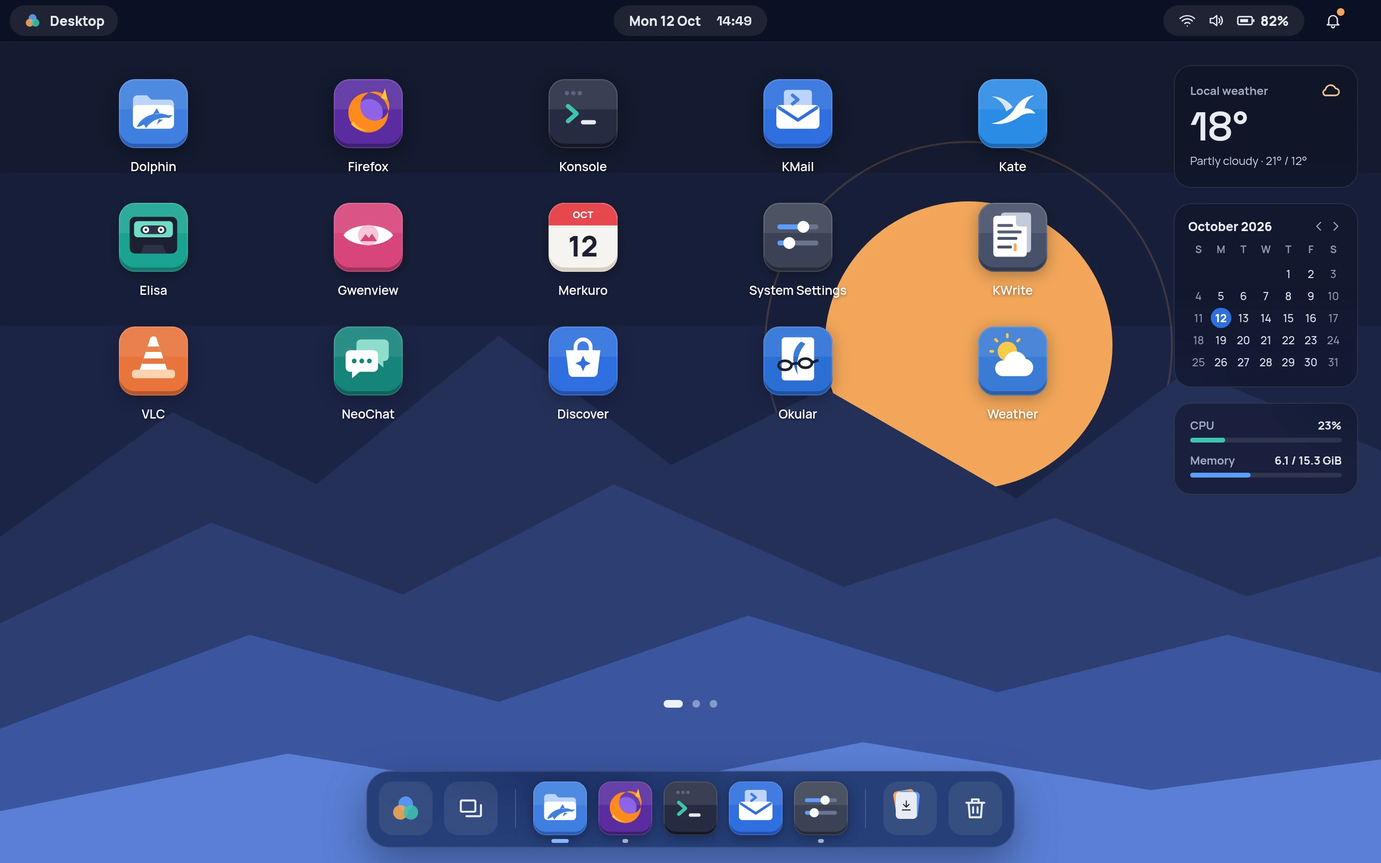
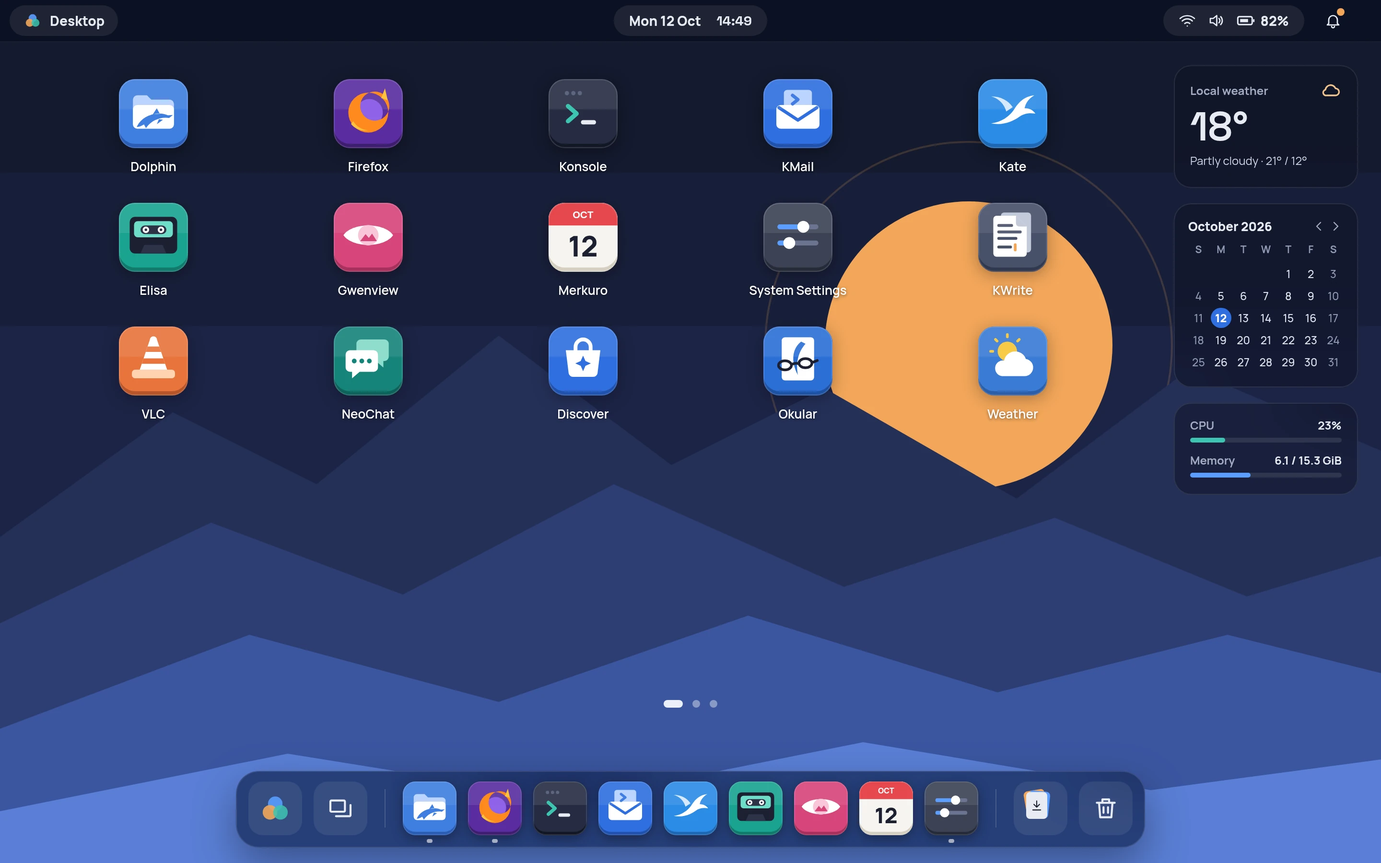
Design: the tablet dock shows the default pins and no active task
The dock's default launchers are nine apps; the boards add Kate, Elisa,
Gwenview and the calendar pin between KMail and System Settings. Dolphin
becomes a running dot like the others: the top-left pill says Desktop, so
the runtime has no active task to mark (TaskItem's wide pill comes from
model.IsActive, the appname pill says Desktop when no task is active).

Changed region(s): [[0.1562, 0.8711, 0.8438, 1.0]]

diff --git a/design/boards/TabletLight.dc.html b/design/boards/TabletLight.dc.html
@@ -189,7 +189,7 @@ a{color:#2f6fdf}a:hover{color:#2359c4}
 <span style="width:1px;height:40px;margin:0 6px 8px;background:rgba(20,24,39,0.16)"></span>
 <div style="position:relative;display:flex;flex-direction:column;align-items:center">
 <button aria-label="Dolphin" style="display:block;width:56px;height:56px;filter:drop-shadow(0 3px 6px rgba(20,24,39,0.14))"><svg xmlns="http://www.w3.org/2000/svg" width="56" height="56" viewBox="0 0 64 64"><defs><linearGradient id="pf-sheen" gradientUnits="userSpaceOnUse" x1="0" y1="0" x2="0" y2="64"><stop offset="0" stop-color="#ffffff" stop-opacity="0.09"/><stop offset="0.4375" stop-color="#ffffff" stop-opacity="0.09"/><stop offset="0.4375" stop-color="#ffffff" stop-opacity="0"/></linearGradient></defs><path d="M15 0h34a15 15 0 0 1 15 15v34a15 15 0 0 1 -15 15h-34a15 15 0 0 1 -15 -15v-34a15 15 0 0 1 15 -15z" fill="#2b5db5"/><path d="M15 0h34a15 15 0 0 1 15 15v30a15 15 0 0 1 -15 15h-34a15 15 0 0 1 -15 -15v-30a15 15 0 0 1 15 -15z" fill="#3f7fe0"/><path d="M15 0h34a15 15 0 0 1 15 15v13H0V15A15 15 0 0 1 15 0z" fill="#ffffff" fill-opacity="0.09"/><path d="M13 19a4 4 0 0 1 4-4h9l4 4h17a4 4 0 0 1 4 4v19H13z" fill="#bcd4ff"/><path fill-rule="evenodd" d="M17 24h30a4 4 0 0 1 4 4v14a4 4 0 0 1 -4 4h-30a4 4 0 0 1 -4 -4v-14a4 4 0 0 1 4 -4z" fill="#ffffff"/><path fill-rule="evenodd" d="M16.5 44.5c3-7 10-11.5 18.5-12.5 4-.4 7.5.3 10.5 1.6l4.5-.4-3.4 2.8c-4.4-.7-9 0-13 2-3.6 1.8-6.5 4.4-8.5 7.4l-1.9-3.4c-2.4 1.5-4.6 2.3-6.7 2.5zM31.5 32.6l3.6-5.6 2.8 5.1zM37 37.2l-1.8 4.6 5.6-4.1z" fill="#3f7fe0"/><path d="M16.5 44.5c3-7 10-11.5 18.5-12.5 4-.4 7.5.3 10.5 1.6l4.5-.4-3.4 2.8c-4.4-.7-9 0-13 2-3.6 1.8-6.5 4.4-8.5 7.4l-1.9-3.4c-2.4 1.5-4.6 2.3-6.7 2.5zM31.5 32.6l3.6-5.6 2.8 5.1zM37 37.2l-1.8 4.6 5.6-4.1z" fill="url(#pf-sheen)" fill-rule="evenodd"/><path d="M15 0.5h34a14.5 14.5 0 0 1 14.5 14.5v34a14.5 14.5 0 0 1 -14.5 14.5h-34a14.5 14.5 0 0 1 -14.5 -14.5v-34a14.5 14.5 0 0 1 14.5 -14.5z" fill="none" stroke="#ffffff" stroke-opacity="0.14" stroke-width="1" stroke-linecap="butt" stroke-linejoin="miter"/></svg></button>
-<span style="position:absolute;bottom:-8px;height:4px;border-radius:2px;width:18px;background:#2f6fdf"></span>
+<span style="position:absolute;bottom:-8px;height:4px;border-radius:2px;width:6px;background:rgba(20,24,39,0.6)"></span>
 </div>
 <div style="position:relative;display:flex;flex-direction:column;align-items:center">
 <button aria-label="Firefox" style="display:block;width:56px;height:56px;filter:drop-shadow(0 3px 6px rgba(20,24,39,0.14))"><svg xmlns="http://www.w3.org/2000/svg" width="56" height="56" viewBox="0 0 64 64"><path d="M15 0h34a15 15 0 0 1 15 15v34a15 15 0 0 1 -15 15h-34a15 15 0 0 1 -15 -15v-34a15 15 0 0 1 15 -15z" fill="#3e1e70"/><path d="M15 0h34a15 15 0 0 1 15 15v30a15 15 0 0 1 -15 15h-34a15 15 0 0 1 -15 -15v-30a15 15 0 0 1 15 -15z" fill="#5a2ca0"/><path d="M15 0h34a15 15 0 0 1 15 15v13H0V15A15 15 0 0 1 15 0z" fill="#ffffff" fill-opacity="0.09"/><path d="M20.5 31a12.5 12.5 0 1 0 25 0a12.5 12.5 0 1 0 -25 0z" fill="#8f63e8"/><path fill-rule="evenodd" d="M13.5 31a18.5 18.5 0 1 0 37 0a18.5 18.5 0 1 0 -37 0zM24.5 25a13.5 13.5 0 1 0 27 0a13.5 13.5 0 1 0 -27 0z" fill="#ff8a1f"/><path fill-rule="evenodd" d="M44 17.5l3.5-9 2.5 11zM18 39c3 5 8 8 14 8.5-7 1-13-2-16-6z" fill="#ffc23d"/><path d="M15 0.5h34a14.5 14.5 0 0 1 14.5 14.5v34a14.5 14.5 0 0 1 -14.5 14.5h-34a14.5 14.5 0 0 1 -14.5 -14.5v-34a14.5 14.5 0 0 1 14.5 -14.5z" fill="none" stroke="#ffffff" stroke-opacity="0.14" stroke-width="1" stroke-linecap="butt" stroke-linejoin="miter"/></svg></button>
@@ -200,6 +200,18 @@ a{color:#2f6fdf}a:hover{color:#2359c4}
 </div>
 <div style="position:relative;display:flex;flex-direction:column;align-items:center">
 <button aria-label="KMail" style="display:block;width:56px;height:56px;filter:drop-shadow(0 3px 6px rgba(20,24,39,0.14))"><svg xmlns="http://www.w3.org/2000/svg" width="56" height="56" viewBox="0 0 64 64"><defs><linearGradient id="pf-sheen" gradientUnits="userSpaceOnUse" x1="0" y1="0" x2="0" y2="64"><stop offset="0" stop-color="#ffffff" stop-opacity="0.09"/><stop offset="0.4375" stop-color="#ffffff" stop-opacity="0.09"/><stop offset="0.4375" stop-color="#ffffff" stop-opacity="0"/></linearGradient></defs><path d="M15 0h34a15 15 0 0 1 15 15v34a15 15 0 0 1 -15 15h-34a15 15 0 0 1 -15 -15v-34a15 15 0 0 1 15 -15z" fill="#2152ad"/><path d="M15 0h34a15 15 0 0 1 15 15v30a15 15 0 0 1 -15 15h-34a15 15 0 0 1 -15 -15v-30a15 15 0 0 1 15 -15z" fill="#2f6fdf"/><path d="M15 0h34a15 15 0 0 1 15 15v13H0V15A15 15 0 0 1 15 0z" fill="#ffffff" fill-opacity="0.09"/><path d="M22 10h20a3 3 0 0 1 3 3v18a3 3 0 0 1 -3 3h-20a3 3 0 0 1 -3 -3v-18a3 3 0 0 1 3 -3z" fill="#bcd4ff"/><path fill-rule="evenodd" d="M16 24h32a4 4 0 0 1 4 4v14a4 4 0 0 1 -4 4h-32a4 4 0 0 1 -4 -4v-14a4 4 0 0 1 4 -4z" fill="#ffffff"/><path d="M14.5 26.5 32 38l17.5-11.5M27 15l5 4-5 4" fill="none" stroke="#2f6fdf" stroke-width="3" stroke-linecap="round" stroke-linejoin="round"/><path d="M14.5 26.5 32 38l17.5-11.5M27 15l5 4-5 4" fill="none" stroke="url(#pf-sheen)" stroke-width="3" stroke-linecap="round" stroke-linejoin="round"/><path d="M15 0.5h34a14.5 14.5 0 0 1 14.5 14.5v34a14.5 14.5 0 0 1 -14.5 14.5h-34a14.5 14.5 0 0 1 -14.5 -14.5v-34a14.5 14.5 0 0 1 14.5 -14.5z" fill="none" stroke="#ffffff" stroke-opacity="0.14" stroke-width="1" stroke-linecap="butt" stroke-linejoin="miter"/></svg></button>
+</div>
+<div style="position:relative;display:flex;flex-direction:column;align-items:center">
+<button aria-label="Kate" style="display:block;width:56px;height:56px;filter:drop-shadow(0 3px 6px rgba(20,24,39,0.14))"><svg xmlns="http://www.w3.org/2000/svg" width="56" height="56" viewBox="0 0 64 64"><path d="M15 0h34a15 15 0 0 1 15 15v34a15 15 0 0 1 -15 15h-34a15 15 0 0 1 -15 -15v-34a15 15 0 0 1 15 -15z" fill="#1f68b3"/><path d="M15 0h34a15 15 0 0 1 15 15v30a15 15 0 0 1 -15 15h-34a15 15 0 0 1 -15 -15v-30a15 15 0 0 1 15 -15z" fill="#2b8be6"/><path d="M15 0h34a15 15 0 0 1 15 15v13H0V15A15 15 0 0 1 15 0z" fill="#ffffff" fill-opacity="0.09"/><path d="M12 41c9-1 17-6 22-14 4-6 9-11 18-12-5 3-8 7-9 12 5 0 8 2 10 5-6-1-11 0-15 3-7 5-16 8-26 6z" fill="#ffffff"/><path fill-rule="evenodd" d="M26 30c-2-7-7-12-14-14 9 0 16 4 20 10z" fill="#d6e8fb"/><path d="M15 0.5h34a14.5 14.5 0 0 1 14.5 14.5v34a14.5 14.5 0 0 1 -14.5 14.5h-34a14.5 14.5 0 0 1 -14.5 -14.5v-34a14.5 14.5 0 0 1 14.5 -14.5z" fill="none" stroke="#ffffff" stroke-opacity="0.14" stroke-width="1" stroke-linecap="butt" stroke-linejoin="miter"/></svg></button>
+</div>
+<div style="position:relative;display:flex;flex-direction:column;align-items:center">
+<button aria-label="Elisa" style="display:block;width:56px;height:56px;filter:drop-shadow(0 3px 6px rgba(20,24,39,0.14))"><svg xmlns="http://www.w3.org/2000/svg" width="56" height="56" viewBox="0 0 64 64"><path d="M15 0h34a15 15 0 0 1 15 15v34a15 15 0 0 1 -15 15h-34a15 15 0 0 1 -15 -15v-34a15 15 0 0 1 15 -15z" fill="#127a6c"/><path d="M15 0h34a15 15 0 0 1 15 15v30a15 15 0 0 1 -15 15h-34a15 15 0 0 1 -15 -15v-30a15 15 0 0 1 15 -15z" fill="#1aa391"/><path d="M15 0h34a15 15 0 0 1 15 15v13H0V15A15 15 0 0 1 15 0z" fill="#ffffff" fill-opacity="0.09"/><path d="M15 13h34a5 5 0 0 1 5 5v24a5 5 0 0 1 -5 5h-34a5 5 0 0 1 -5 -5v-24a5 5 0 0 1 5 -5z" fill="#1b2031"/><path fill-rule="evenodd" d="M17.5 17h29a3.5 3.5 0 0 1 3.5 3.5v8a3.5 3.5 0 0 1 -3.5 3.5h-29a3.5 3.5 0 0 1 -3.5 -3.5v-8a3.5 3.5 0 0 1 3.5 -3.5z" fill="#6fdcc8"/><path fill-rule="evenodd" d="M24 21h16a4 4 0 0 1 4 4v0a4 4 0 0 1 -4 4h-16a4 4 0 0 1 -4 -4v0a4 4 0 0 1 4 -4zM20 47l3.5-8h17l3.5 8z" fill="#2c3348"/><path d="M22 25a3 3 0 1 0 6 0a3 3 0 1 0 -6 0zM36 25a3 3 0 1 0 6 0a3 3 0 1 0 -6 0z" fill="#ffffff"/><path d="M23.8 25a1.2 1.2 0 1 0 2.4 0a1.2 1.2 0 1 0 -2.4 0zM37.8 25a1.2 1.2 0 1 0 2.4 0a1.2 1.2 0 1 0 -2.4 0z" fill="#2c3348"/><path d="M15 0.5h34a14.5 14.5 0 0 1 14.5 14.5v34a14.5 14.5 0 0 1 -14.5 14.5h-34a14.5 14.5 0 0 1 -14.5 -14.5v-34a14.5 14.5 0 0 1 14.5 -14.5z" fill="none" stroke="#ffffff" stroke-opacity="0.14" stroke-width="1" stroke-linecap="butt" stroke-linejoin="miter"/></svg></button>
+</div>
+<div style="position:relative;display:flex;flex-direction:column;align-items:center">
+<button aria-label="Gwenview" style="display:block;width:56px;height:56px;filter:drop-shadow(0 3px 6px rgba(20,24,39,0.14))"><svg xmlns="http://www.w3.org/2000/svg" width="56" height="56" viewBox="0 0 64 64"><defs><linearGradient id="pf-sheen" gradientUnits="userSpaceOnUse" x1="0" y1="0" x2="0" y2="64"><stop offset="0" stop-color="#ffffff" stop-opacity="0.09"/><stop offset="0.4375" stop-color="#ffffff" stop-opacity="0.09"/><stop offset="0.4375" stop-color="#ffffff" stop-opacity="0"/></linearGradient></defs><path d="M15 0h34a15 15 0 0 1 15 15v34a15 15 0 0 1 -15 15h-34a15 15 0 0 1 -15 -15v-34a15 15 0 0 1 15 -15z" fill="#a8325d"/><path d="M15 0h34a15 15 0 0 1 15 15v30a15 15 0 0 1 -15 15h-34a15 15 0 0 1 -15 -15v-30a15 15 0 0 1 15 -15z" fill="#d6457a"/><path d="M15 0h34a15 15 0 0 1 15 15v13H0V15A15 15 0 0 1 15 0z" fill="#ffffff" fill-opacity="0.09"/><path d="M9 30c8-12 38-12 46 0-8 12-38 12-46 0z" fill="#ffffff"/><path fill-rule="evenodd" d="M22.5 30a9.5 9.5 0 1 0 19 0a9.5 9.5 0 1 0 -19 0z" fill="#f8c6d8"/><path fill-rule="evenodd" d="M24.5 35.5l5-6.5 3 3.5 3-4 4.5 7z" fill="#d6457a"/><path d="M24.5 35.5l5-6.5 3 3.5 3-4 4.5 7z" fill="url(#pf-sheen)" fill-rule="evenodd"/><path d="M15 0.5h34a14.5 14.5 0 0 1 14.5 14.5v34a14.5 14.5 0 0 1 -14.5 14.5h-34a14.5 14.5 0 0 1 -14.5 -14.5v-34a14.5 14.5 0 0 1 14.5 -14.5z" fill="none" stroke="#ffffff" stroke-opacity="0.14" stroke-width="1" stroke-linecap="butt" stroke-linejoin="miter"/></svg></button>
+</div>
+<div style="position:relative;display:flex;flex-direction:column;align-items:center">
+<button aria-label="Merkuro" style="display:block;width:56px;height:56px;filter:drop-shadow(0 3px 6px rgba(20,24,39,0.14))"><svg xmlns="http://www.w3.org/2000/svg" width="56" height="56" viewBox="0 0 64 64"><path d="M15 0h34a15 15 0 0 1 15 15v34a15 15 0 0 1 -15 15h-34a15 15 0 0 1 -15 -15v-34a15 15 0 0 1 15 -15z" fill="#d6d0c2"/><path d="M15 0h34a15 15 0 0 1 15 15v30a15 15 0 0 1 -15 15h-34a15 15 0 0 1 -15 -15v-30a15 15 0 0 1 15 -15z" fill="#f6f4ef"/><path d="M15 0h34a15 15 0 0 1 15 15v13H0V15A15 15 0 0 1 15 0z" fill="#ffffff" fill-opacity="0.09"/><path d="M15 0h34a15 15 0 0 1 15 15v6H0V15A15 15 0 0 1 15 0z" fill="#e5484d"/><path d="M15 0.5h34a14.5 14.5 0 0 1 14.5 14.5v34a14.5 14.5 0 0 1 -14.5 14.5h-34a14.5 14.5 0 0 1 -14.5 -14.5v-34a14.5 14.5 0 0 1 14.5 -14.5z" fill="none" stroke="#ffffff" stroke-opacity="0.14" stroke-width="1" stroke-linecap="butt" stroke-linejoin="miter"/><path d="M25.3985 14.082C24.9185 14.082 24.4857 13.9972 24.1003 13.8277C23.7148 13.6583 23.3983 13.4153 23.1508 13.0987C22.9033 12.7822 22.7465 12.405 22.6805 11.967L23.9585 11.778C24.0485 12.15 24.2345 12.4365 24.5165 12.6375C24.7985 12.8385 25.1195 12.939 25.4795 12.939C25.6805 12.939 25.8755 12.9076 26.0645 12.8447C26.2535 12.7818 26.4088 12.6889 26.5303 12.566C26.6518 12.4433 26.7125 12.292 26.7125 12.1123C26.7125 12.0464 26.7028 11.9827 26.6833 11.9213C26.6637 11.8599 26.6315 11.8022 26.5865 11.7483C26.5415 11.6944 26.4778 11.6435 26.3953 11.5956C26.3127 11.5477 26.2085 11.5043 26.0825 11.4654L24.3995 10.9711C24.2735 10.9352 24.1273 10.8843 23.9608 10.8184C23.7943 10.7524 23.633 10.6581 23.477 10.5353C23.321 10.4125 23.1913 10.25 23.0878 10.0478C22.9843 9.8456 22.9325 9.5903 22.9325 9.2818C22.9325 8.8475 23.042 8.4866 23.261 8.1991C23.48 7.9116 23.7725 7.6974 24.1385 7.5566C24.5045 7.4159 24.9095 7.3455 25.3535 7.3455C25.8005 7.3455 26.1995 7.4191 26.5505 7.5664C26.9015 7.7138 27.1955 7.9281 27.4325 8.2092C27.6695 8.4904 27.8405 8.834 27.9455 9.24L26.6225 9.465C26.5745 9.255 26.486 9.078 26.357 8.934C26.228 8.79 26.0742 8.6805 25.8958 8.6055C25.7173 8.5305 25.5305 8.49 25.3355 8.484C25.1435 8.478 24.9627 8.5042 24.7933 8.5627C24.6238 8.6212 24.4857 8.706 24.3793 8.817C24.2728 8.928 24.2195 9.06 24.2195 9.213C24.2195 9.354 24.263 9.4688 24.35 9.5572C24.437 9.6457 24.5465 9.717 24.6785 9.771C24.8105 9.825 24.9455 9.87 25.0835 9.906L26.2085 10.212C26.3765 10.257 26.5625 10.3162 26.7665 10.3897C26.9705 10.4633 27.1663 10.5652 27.3538 10.6958C27.5412 10.8262 27.6958 10.998 27.8173 11.211C27.9388 11.424 27.9995 11.694 27.9995 12.021C27.9995 12.369 27.9268 12.6728 27.7813 12.9322C27.6357 13.1917 27.44 13.4063 27.194 13.5757C26.948 13.7452 26.6698 13.872 26.3593 13.956C26.0488 14.04 25.7285 14.082 25.3985 14.082M29.7095 13.947L29.7095 7.467L33.9395 7.467L33.9395 8.61L30.9335 8.61L30.9335 9.996L33.3995 9.996L33.3995 11.139L30.9335 11.139L30.9335 12.804L33.9395 12.804L33.9395 13.947L29.7095 13.947M35.7395 13.947L35.7395 7.476L38.4755 7.476C38.5385 7.476 38.6233 7.476 38.7297 7.476C38.8362 7.476 38.9315 7.4835 39.0155 7.4985C39.4025 7.5586 39.7197 7.6862 39.9672 7.8814C40.2147 8.0766 40.397 8.3221 40.514 8.6179C40.631 8.9138 40.6895 9.2434 40.6895 9.6067C40.6895 9.9701 40.6303 10.2997 40.5117 10.5955C40.3932 10.8912 40.2102 11.1367 39.9627 11.332C39.7152 11.5273 39.3995 11.6549 39.0155 11.7148C38.9315 11.727 38.8355 11.736 38.7275 11.742C38.6195 11.748 38.5355 11.751 38.4755 11.751L36.9635 11.751L36.9635 13.947L35.7395 13.947M36.9635 10.608L38.4215 10.608C38.4845 10.608 38.5535 10.605 38.6285 10.599C38.7035 10.593 38.7725 10.581 38.8355 10.563C39.0005 10.518 39.128 10.4422 39.218 10.3357C39.308 10.2293 39.3703 10.1107 39.4047 9.9802C39.4392 9.8498 39.4565 9.726 39.4565 9.609C39.4565 9.492 39.4392 9.3682 39.4047 9.2377C39.3703 9.1073 39.308 8.9887 39.218 8.8822C39.128 8.7758 39.0005 8.7 38.8355 8.655C38.7725 8.637 38.7035 8.625 38.6285 8.619C38.5535 8.613 38.4845 8.61 38.4215 8.61L36.9635 8.61L36.9635 10.608" fill="#ffffff"/><path d="M17.57 49.496L17.57 47.312C17.57 46.0466 17.778 44.9936 18.194 44.153C18.61 43.3124 19.2124 42.619 20.001 42.073C20.7896 41.527 21.756 41.0806 22.9 40.734L24.642 40.188C25.2834 39.98 25.8206 39.7244 26.254 39.421C26.6874 39.1176 27.021 38.7494 27.255 38.316C27.489 37.8826 27.606 37.3886 27.606 36.834L27.606 36.73C27.606 35.8634 27.3114 35.1744 26.722 34.663C26.1326 34.1516 25.3266 33.896 24.304 33.896C23.2986 33.896 22.4884 34.169 21.873 34.715C21.2576 35.261 20.95 36.0454 20.95 37.068L20.95 37.536L17.622 37.536L17.622 37.12C17.622 35.8026 17.9166 34.6846 18.506 33.766C19.0954 32.8474 19.897 32.1454 20.911 31.66C21.925 31.1746 23.056 30.932 24.304 30.932C25.552 30.932 26.6786 31.1704 27.684 31.647C28.6894 32.1236 29.4824 32.791 30.063 33.649C30.6436 34.507 30.934 35.5166 30.934 36.678L30.934 36.938C30.934 38.0994 30.6956 39.083 30.219 39.889C29.7424 40.695 29.0966 41.3536 28.282 41.865C27.4674 42.3764 26.54 42.7966 25.5 43.126L23.836 43.646C23.0906 43.8714 22.51 44.1184 22.094 44.387C21.678 44.6556 21.3876 44.9504 21.223 45.271C21.0584 45.5916 20.976 45.9774 20.976 46.428L20.976 46.532L30.778 46.532L30.778 49.496L17.57 49.496M39.722 49.86C38.3354 49.86 37.109 49.652 36.043 49.236C34.977 48.82 34.145 48.2176 33.547 47.429C32.949 46.6404 32.65 45.7086 32.65 44.634L32.65 44.322C32.65 43.49 32.7974 42.801 33.092 42.255C33.3866 41.709 33.755 41.28 34.197 40.968C34.639 40.656 35.0594 40.4394 35.458 40.318L35.458 39.85C35.0594 39.7114 34.6606 39.486 34.262 39.174C33.8634 38.862 33.5384 38.446 33.287 37.926C33.0356 37.406 32.91 36.782 32.91 36.054L32.91 35.742C32.91 34.7886 33.1916 33.9524 33.755 33.233C34.3184 32.5136 35.1114 31.9504 36.134 31.543C37.1566 31.1356 38.3526 30.932 39.722 30.932C41.0914 30.932 42.2874 31.1356 43.31 31.543C44.3326 31.9504 45.1256 32.5136 45.689 33.233C46.2524 33.9524 46.534 34.7886 46.534 35.742L46.534 36.054C46.534 36.782 46.4084 37.406 46.157 37.926C45.9056 38.446 45.585 38.862 45.195 39.174C44.805 39.486 44.402 39.7114 43.986 39.85L43.986 40.318C44.402 40.4394 44.8266 40.656 45.26 40.968C45.6934 41.28 46.0574 41.709 46.352 42.255C46.6466 42.801 46.794 43.49 46.794 44.322L46.794 44.634C46.794 45.7086 46.495 46.6404 45.897 47.429C45.299 48.2176 44.467 48.82 43.401 49.236C42.335 49.652 41.1086 49.86 39.722 49.86M39.722 46.896C40.918 46.896 41.841 46.6664 42.491 46.207C43.141 45.7476 43.466 45.1366 43.466 44.374L43.466 44.166C43.466 43.4034 43.1496 42.7924 42.517 42.333C41.8844 41.8736 40.9526 41.644 39.722 41.644C38.5086 41.644 37.5814 41.8736 36.94 42.333C36.2986 42.7924 35.978 43.4034 35.978 44.166L35.978 44.374C35.978 45.1366 36.303 45.7476 36.953 46.207C37.603 46.6664 38.526 46.896 39.722 46.896M39.722 38.68C40.8314 38.68 41.6894 38.4806 42.296 38.082C42.9026 37.6834 43.206 37.12 43.206 36.392L43.206 36.184C43.206 35.456 42.894 34.8926 42.27 34.494C41.646 34.0954 40.7966 33.896 39.722 33.896C38.6474 33.896 37.798 34.0954 37.174 34.494C36.55 34.8926 36.238 35.456 36.238 36.184L36.238 36.392C36.238 37.12 36.5414 37.6834 37.148 38.082C37.7546 38.4806 38.6126 38.68 39.722 38.68" fill="#1b2031"/><rect x="14" y="3" width="36" height="16" fill="#e5484d"/><text x="32" y="14.2" text-anchor="middle" font-family="Manrope, system-ui, sans-serif" font-size="9" font-weight="800" fill="#ffffff">OCT</text><rect x="10" y="23" width="44" height="35" fill="#f6f4ef"/><text x="32" y="49.6" text-anchor="middle" font-family="Manrope, system-ui, sans-serif" font-size="26" font-weight="800" fill="#1b2031">12</text></svg></button>
 </div>
 <div style="position:relative;display:flex;flex-direction:column;align-items:center">
 <button aria-label="System Settings" style="display:block;width:56px;height:56px;filter:drop-shadow(0 3px 6px rgba(20,24,39,0.14))"><svg xmlns="http://www.w3.org/2000/svg" width="56" height="56" viewBox="0 0 64 64"><path d="M15 0h34a15 15 0 0 1 15 15v34a15 15 0 0 1 -15 15h-34a15 15 0 0 1 -15 -15v-34a15 15 0 0 1 15 -15z" fill="#262b38"/><path d="M15 0h34a15 15 0 0 1 15 15v30a15 15 0 0 1 -15 15h-34a15 15 0 0 1 -15 -15v-30a15 15 0 0 1 15 -15z" fill="#3b4255"/><path d="M15 0h34a15 15 0 0 1 15 15v13H0V15A15 15 0 0 1 15 0z" fill="#ffffff" fill-opacity="0.09"/><path d="M15.25 20h33.5a2.25 2.25 0 0 1 2.25 2.25v0a2.25 2.25 0 0 1 -2.25 2.25h-33.5a2.25 2.25 0 0 1 -2.25 -2.25v0a2.25 2.25 0 0 1 2.25 -2.25zM15.25 35h33.5a2.25 2.25 0 0 1 2.25 2.25v0a2.25 2.25 0 0 1 -2.25 2.25h-33.5a2.25 2.25 0 0 1 -2.25 -2.25v0a2.25 2.25 0 0 1 2.25 -2.25z" fill="#6b7490"/><path fill-rule="evenodd" d="M15.25 20h19.5a2.25 2.25 0 0 1 2.25 2.25v0a2.25 2.25 0 0 1 -2.25 2.25h-19.5a2.25 2.25 0 0 1 -2.25 -2.25v0a2.25 2.25 0 0 1 2.25 -2.25zM15.25 35h6.5a2.25 2.25 0 0 1 2.25 2.25v0a2.25 2.25 0 0 1 -2.25 2.25h-6.5a2.25 2.25 0 0 1 -2.25 -2.25v0a2.25 2.25 0 0 1 2.25 -2.25z" fill="#5b9dff"/><path fill-rule="evenodd" d="M31.5 22.25a5.5 5.5 0 1 0 11 0a5.5 5.5 0 1 0 -11 0zM18.5 37.25a5.5 5.5 0 1 0 11 0a5.5 5.5 0 1 0 -11 0z" fill="#ffffff"/><path d="M15 0.5h34a14.5 14.5 0 0 1 14.5 14.5v34a14.5 14.5 0 0 1 -14.5 14.5h-34a14.5 14.5 0 0 1 -14.5 -14.5v-34a14.5 14.5 0 0 1 14.5 -14.5z" fill="none" stroke="#ffffff" stroke-opacity="0.14" stroke-width="1" stroke-linecap="butt" stroke-linejoin="miter"/></svg></button>

diff --git a/design/boards/Tablet.dc.html b/design/boards/Tablet.dc.html
@@ -189,7 +189,7 @@ a{color:#8ab8ff}a:hover{color:#b9d4ff}
 <span style="width:1px;height:40px;margin:0 6px 8px;background:rgba(255,255,255,0.16)"></span>
 <div style="position:relative;display:flex;flex-direction:column;align-items:center">
 <button aria-label="Dolphin" style="display:block;width:56px;height:56px;filter:drop-shadow(0 3px 6px rgba(0,0,0,0.35))"><svg xmlns="http://www.w3.org/2000/svg" width="56" height="56" viewBox="0 0 64 64"><defs><linearGradient id="pf-sheen" gradientUnits="userSpaceOnUse" x1="0" y1="0" x2="0" y2="64"><stop offset="0" stop-color="#ffffff" stop-opacity="0.09"/><stop offset="0.4375" stop-color="#ffffff" stop-opacity="0.09"/><stop offset="0.4375" stop-color="#ffffff" stop-opacity="0"/></linearGradient></defs><path d="M15 0h34a15 15 0 0 1 15 15v34a15 15 0 0 1 -15 15h-34a15 15 0 0 1 -15 -15v-34a15 15 0 0 1 15 -15z" fill="#2b5db5"/><path d="M15 0h34a15 15 0 0 1 15 15v30a15 15 0 0 1 -15 15h-34a15 15 0 0 1 -15 -15v-30a15 15 0 0 1 15 -15z" fill="#3f7fe0"/><path d="M15 0h34a15 15 0 0 1 15 15v13H0V15A15 15 0 0 1 15 0z" fill="#ffffff" fill-opacity="0.09"/><path d="M13 19a4 4 0 0 1 4-4h9l4 4h17a4 4 0 0 1 4 4v19H13z" fill="#bcd4ff"/><path fill-rule="evenodd" d="M17 24h30a4 4 0 0 1 4 4v14a4 4 0 0 1 -4 4h-30a4 4 0 0 1 -4 -4v-14a4 4 0 0 1 4 -4z" fill="#ffffff"/><path fill-rule="evenodd" d="M16.5 44.5c3-7 10-11.5 18.5-12.5 4-.4 7.5.3 10.5 1.6l4.5-.4-3.4 2.8c-4.4-.7-9 0-13 2-3.6 1.8-6.5 4.4-8.5 7.4l-1.9-3.4c-2.4 1.5-4.6 2.3-6.7 2.5zM31.5 32.6l3.6-5.6 2.8 5.1zM37 37.2l-1.8 4.6 5.6-4.1z" fill="#3f7fe0"/><path d="M16.5 44.5c3-7 10-11.5 18.5-12.5 4-.4 7.5.3 10.5 1.6l4.5-.4-3.4 2.8c-4.4-.7-9 0-13 2-3.6 1.8-6.5 4.4-8.5 7.4l-1.9-3.4c-2.4 1.5-4.6 2.3-6.7 2.5zM31.5 32.6l3.6-5.6 2.8 5.1zM37 37.2l-1.8 4.6 5.6-4.1z" fill="url(#pf-sheen)" fill-rule="evenodd"/><path d="M15 0.5h34a14.5 14.5 0 0 1 14.5 14.5v34a14.5 14.5 0 0 1 -14.5 14.5h-34a14.5 14.5 0 0 1 -14.5 -14.5v-34a14.5 14.5 0 0 1 14.5 -14.5z" fill="none" stroke="#ffffff" stroke-opacity="0.14" stroke-width="1" stroke-linecap="butt" stroke-linejoin="miter"/></svg></button>
-<span style="position:absolute;bottom:-8px;height:4px;border-radius:2px;width:18px;background:#8ab8ff"></span>
+<span style="position:absolute;bottom:-8px;height:4px;border-radius:2px;width:6px;background:rgba(255,255,255,0.6)"></span>
 </div>
 <div style="position:relative;display:flex;flex-direction:column;align-items:center">
 <button aria-label="Firefox" style="display:block;width:56px;height:56px;filter:drop-shadow(0 3px 6px rgba(0,0,0,0.35))"><svg xmlns="http://www.w3.org/2000/svg" width="56" height="56" viewBox="0 0 64 64"><path d="M15 0h34a15 15 0 0 1 15 15v34a15 15 0 0 1 -15 15h-34a15 15 0 0 1 -15 -15v-34a15 15 0 0 1 15 -15z" fill="#3e1e70"/><path d="M15 0h34a15 15 0 0 1 15 15v30a15 15 0 0 1 -15 15h-34a15 15 0 0 1 -15 -15v-30a15 15 0 0 1 15 -15z" fill="#5a2ca0"/><path d="M15 0h34a15 15 0 0 1 15 15v13H0V15A15 15 0 0 1 15 0z" fill="#ffffff" fill-opacity="0.09"/><path d="M20.5 31a12.5 12.5 0 1 0 25 0a12.5 12.5 0 1 0 -25 0z" fill="#8f63e8"/><path fill-rule="evenodd" d="M13.5 31a18.5 18.5 0 1 0 37 0a18.5 18.5 0 1 0 -37 0zM24.5 25a13.5 13.5 0 1 0 27 0a13.5 13.5 0 1 0 -27 0z" fill="#ff8a1f"/><path fill-rule="evenodd" d="M44 17.5l3.5-9 2.5 11zM18 39c3 5 8 8 14 8.5-7 1-13-2-16-6z" fill="#ffc23d"/><path d="M15 0.5h34a14.5 14.5 0 0 1 14.5 14.5v34a14.5 14.5 0 0 1 -14.5 14.5h-34a14.5 14.5 0 0 1 -14.5 -14.5v-34a14.5 14.5 0 0 1 14.5 -14.5z" fill="none" stroke="#ffffff" stroke-opacity="0.14" stroke-width="1" stroke-linecap="butt" stroke-linejoin="miter"/></svg></button>
@@ -200,6 +200,18 @@ a{color:#8ab8ff}a:hover{color:#b9d4ff}
 </div>
 <div style="position:relative;display:flex;flex-direction:column;align-items:center">
 <button aria-label="KMail" style="display:block;width:56px;height:56px;filter:drop-shadow(0 3px 6px rgba(0,0,0,0.35))"><svg xmlns="http://www.w3.org/2000/svg" width="56" height="56" viewBox="0 0 64 64"><defs><linearGradient id="pf-sheen" gradientUnits="userSpaceOnUse" x1="0" y1="0" x2="0" y2="64"><stop offset="0" stop-color="#ffffff" stop-opacity="0.09"/><stop offset="0.4375" stop-color="#ffffff" stop-opacity="0.09"/><stop offset="0.4375" stop-color="#ffffff" stop-opacity="0"/></linearGradient></defs><path d="M15 0h34a15 15 0 0 1 15 15v34a15 15 0 0 1 -15 15h-34a15 15 0 0 1 -15 -15v-34a15 15 0 0 1 15 -15z" fill="#2152ad"/><path d="M15 0h34a15 15 0 0 1 15 15v30a15 15 0 0 1 -15 15h-34a15 15 0 0 1 -15 -15v-30a15 15 0 0 1 15 -15z" fill="#2f6fdf"/><path d="M15 0h34a15 15 0 0 1 15 15v13H0V15A15 15 0 0 1 15 0z" fill="#ffffff" fill-opacity="0.09"/><path d="M22 10h20a3 3 0 0 1 3 3v18a3 3 0 0 1 -3 3h-20a3 3 0 0 1 -3 -3v-18a3 3 0 0 1 3 -3z" fill="#bcd4ff"/><path fill-rule="evenodd" d="M16 24h32a4 4 0 0 1 4 4v14a4 4 0 0 1 -4 4h-32a4 4 0 0 1 -4 -4v-14a4 4 0 0 1 4 -4z" fill="#ffffff"/><path d="M14.5 26.5 32 38l17.5-11.5M27 15l5 4-5 4" fill="none" stroke="#2f6fdf" stroke-width="3" stroke-linecap="round" stroke-linejoin="round"/><path d="M14.5 26.5 32 38l17.5-11.5M27 15l5 4-5 4" fill="none" stroke="url(#pf-sheen)" stroke-width="3" stroke-linecap="round" stroke-linejoin="round"/><path d="M15 0.5h34a14.5 14.5 0 0 1 14.5 14.5v34a14.5 14.5 0 0 1 -14.5 14.5h-34a14.5 14.5 0 0 1 -14.5 -14.5v-34a14.5 14.5 0 0 1 14.5 -14.5z" fill="none" stroke="#ffffff" stroke-opacity="0.14" stroke-width="1" stroke-linecap="butt" stroke-linejoin="miter"/></svg></button>
+</div>
+<div style="position:relative;display:flex;flex-direction:column;align-items:center">
+<button aria-label="Kate" style="display:block;width:56px;height:56px;filter:drop-shadow(0 3px 6px rgba(0,0,0,0.35))"><svg xmlns="http://www.w3.org/2000/svg" width="56" height="56" viewBox="0 0 64 64"><path d="M15 0h34a15 15 0 0 1 15 15v34a15 15 0 0 1 -15 15h-34a15 15 0 0 1 -15 -15v-34a15 15 0 0 1 15 -15z" fill="#1f68b3"/><path d="M15 0h34a15 15 0 0 1 15 15v30a15 15 0 0 1 -15 15h-34a15 15 0 0 1 -15 -15v-30a15 15 0 0 1 15 -15z" fill="#2b8be6"/><path d="M15 0h34a15 15 0 0 1 15 15v13H0V15A15 15 0 0 1 15 0z" fill="#ffffff" fill-opacity="0.09"/><path d="M12 41c9-1 17-6 22-14 4-6 9-11 18-12-5 3-8 7-9 12 5 0 8 2 10 5-6-1-11 0-15 3-7 5-16 8-26 6z" fill="#ffffff"/><path fill-rule="evenodd" d="M26 30c-2-7-7-12-14-14 9 0 16 4 20 10z" fill="#d6e8fb"/><path d="M15 0.5h34a14.5 14.5 0 0 1 14.5 14.5v34a14.5 14.5 0 0 1 -14.5 14.5h-34a14.5 14.5 0 0 1 -14.5 -14.5v-34a14.5 14.5 0 0 1 14.5 -14.5z" fill="none" stroke="#ffffff" stroke-opacity="0.14" stroke-width="1" stroke-linecap="butt" stroke-linejoin="miter"/></svg></button>
+</div>
+<div style="position:relative;display:flex;flex-direction:column;align-items:center">
+<button aria-label="Elisa" style="display:block;width:56px;height:56px;filter:drop-shadow(0 3px 6px rgba(0,0,0,0.35))"><svg xmlns="http://www.w3.org/2000/svg" width="56" height="56" viewBox="0 0 64 64"><path d="M15 0h34a15 15 0 0 1 15 15v34a15 15 0 0 1 -15 15h-34a15 15 0 0 1 -15 -15v-34a15 15 0 0 1 15 -15z" fill="#127a6c"/><path d="M15 0h34a15 15 0 0 1 15 15v30a15 15 0 0 1 -15 15h-34a15 15 0 0 1 -15 -15v-30a15 15 0 0 1 15 -15z" fill="#1aa391"/><path d="M15 0h34a15 15 0 0 1 15 15v13H0V15A15 15 0 0 1 15 0z" fill="#ffffff" fill-opacity="0.09"/><path d="M15 13h34a5 5 0 0 1 5 5v24a5 5 0 0 1 -5 5h-34a5 5 0 0 1 -5 -5v-24a5 5 0 0 1 5 -5z" fill="#1b2031"/><path fill-rule="evenodd" d="M17.5 17h29a3.5 3.5 0 0 1 3.5 3.5v8a3.5 3.5 0 0 1 -3.5 3.5h-29a3.5 3.5 0 0 1 -3.5 -3.5v-8a3.5 3.5 0 0 1 3.5 -3.5z" fill="#6fdcc8"/><path fill-rule="evenodd" d="M24 21h16a4 4 0 0 1 4 4v0a4 4 0 0 1 -4 4h-16a4 4 0 0 1 -4 -4v0a4 4 0 0 1 4 -4zM20 47l3.5-8h17l3.5 8z" fill="#2c3348"/><path d="M22 25a3 3 0 1 0 6 0a3 3 0 1 0 -6 0zM36 25a3 3 0 1 0 6 0a3 3 0 1 0 -6 0z" fill="#ffffff"/><path d="M23.8 25a1.2 1.2 0 1 0 2.4 0a1.2 1.2 0 1 0 -2.4 0zM37.8 25a1.2 1.2 0 1 0 2.4 0a1.2 1.2 0 1 0 -2.4 0z" fill="#2c3348"/><path d="M15 0.5h34a14.5 14.5 0 0 1 14.5 14.5v34a14.5 14.5 0 0 1 -14.5 14.5h-34a14.5 14.5 0 0 1 -14.5 -14.5v-34a14.5 14.5 0 0 1 14.5 -14.5z" fill="none" stroke="#ffffff" stroke-opacity="0.14" stroke-width="1" stroke-linecap="butt" stroke-linejoin="miter"/></svg></button>
+</div>
+<div style="position:relative;display:flex;flex-direction:column;align-items:center">
+<button aria-label="Gwenview" style="display:block;width:56px;height:56px;filter:drop-shadow(0 3px 6px rgba(0,0,0,0.35))"><svg xmlns="http://www.w3.org/2000/svg" width="56" height="56" viewBox="0 0 64 64"><defs><linearGradient id="pf-sheen" gradientUnits="userSpaceOnUse" x1="0" y1="0" x2="0" y2="64"><stop offset="0" stop-color="#ffffff" stop-opacity="0.09"/><stop offset="0.4375" stop-color="#ffffff" stop-opacity="0.09"/><stop offset="0.4375" stop-color="#ffffff" stop-opacity="0"/></linearGradient></defs><path d="M15 0h34a15 15 0 0 1 15 15v34a15 15 0 0 1 -15 15h-34a15 15 0 0 1 -15 -15v-34a15 15 0 0 1 15 -15z" fill="#a8325d"/><path d="M15 0h34a15 15 0 0 1 15 15v30a15 15 0 0 1 -15 15h-34a15 15 0 0 1 -15 -15v-30a15 15 0 0 1 15 -15z" fill="#d6457a"/><path d="M15 0h34a15 15 0 0 1 15 15v13H0V15A15 15 0 0 1 15 0z" fill="#ffffff" fill-opacity="0.09"/><path d="M9 30c8-12 38-12 46 0-8 12-38 12-46 0z" fill="#ffffff"/><path fill-rule="evenodd" d="M22.5 30a9.5 9.5 0 1 0 19 0a9.5 9.5 0 1 0 -19 0z" fill="#f8c6d8"/><path fill-rule="evenodd" d="M24.5 35.5l5-6.5 3 3.5 3-4 4.5 7z" fill="#d6457a"/><path d="M24.5 35.5l5-6.5 3 3.5 3-4 4.5 7z" fill="url(#pf-sheen)" fill-rule="evenodd"/><path d="M15 0.5h34a14.5 14.5 0 0 1 14.5 14.5v34a14.5 14.5 0 0 1 -14.5 14.5h-34a14.5 14.5 0 0 1 -14.5 -14.5v-34a14.5 14.5 0 0 1 14.5 -14.5z" fill="none" stroke="#ffffff" stroke-opacity="0.14" stroke-width="1" stroke-linecap="butt" stroke-linejoin="miter"/></svg></button>
+</div>
+<div style="position:relative;display:flex;flex-direction:column;align-items:center">
+<button aria-label="Merkuro" style="display:block;width:56px;height:56px;filter:drop-shadow(0 3px 6px rgba(0,0,0,0.35))"><svg xmlns="http://www.w3.org/2000/svg" width="56" height="56" viewBox="0 0 64 64"><path d="M15 0h34a15 15 0 0 1 15 15v34a15 15 0 0 1 -15 15h-34a15 15 0 0 1 -15 -15v-34a15 15 0 0 1 15 -15z" fill="#d6d0c2"/><path d="M15 0h34a15 15 0 0 1 15 15v30a15 15 0 0 1 -15 15h-34a15 15 0 0 1 -15 -15v-30a15 15 0 0 1 15 -15z" fill="#f6f4ef"/><path d="M15 0h34a15 15 0 0 1 15 15v13H0V15A15 15 0 0 1 15 0z" fill="#ffffff" fill-opacity="0.09"/><path d="M15 0h34a15 15 0 0 1 15 15v6H0V15A15 15 0 0 1 15 0z" fill="#e5484d"/><path d="M15 0.5h34a14.5 14.5 0 0 1 14.5 14.5v34a14.5 14.5 0 0 1 -14.5 14.5h-34a14.5 14.5 0 0 1 -14.5 -14.5v-34a14.5 14.5 0 0 1 14.5 -14.5z" fill="none" stroke="#ffffff" stroke-opacity="0.14" stroke-width="1" stroke-linecap="butt" stroke-linejoin="miter"/><path d="M25.3985 14.082C24.9185 14.082 24.4857 13.9972 24.1003 13.8277C23.7148 13.6583 23.3983 13.4153 23.1508 13.0987C22.9033 12.7822 22.7465 12.405 22.6805 11.967L23.9585 11.778C24.0485 12.15 24.2345 12.4365 24.5165 12.6375C24.7985 12.8385 25.1195 12.939 25.4795 12.939C25.6805 12.939 25.8755 12.9076 26.0645 12.8447C26.2535 12.7818 26.4088 12.6889 26.5303 12.566C26.6518 12.4433 26.7125 12.292 26.7125 12.1123C26.7125 12.0464 26.7028 11.9827 26.6833 11.9213C26.6637 11.8599 26.6315 11.8022 26.5865 11.7483C26.5415 11.6944 26.4778 11.6435 26.3953 11.5956C26.3127 11.5477 26.2085 11.5043 26.0825 11.4654L24.3995 10.9711C24.2735 10.9352 24.1273 10.8843 23.9608 10.8184C23.7943 10.7524 23.633 10.6581 23.477 10.5353C23.321 10.4125 23.1913 10.25 23.0878 10.0478C22.9843 9.8456 22.9325 9.5903 22.9325 9.2818C22.9325 8.8475 23.042 8.4866 23.261 8.1991C23.48 7.9116 23.7725 7.6974 24.1385 7.5566C24.5045 7.4159 24.9095 7.3455 25.3535 7.3455C25.8005 7.3455 26.1995 7.4191 26.5505 7.5664C26.9015 7.7138 27.1955 7.9281 27.4325 8.2092C27.6695 8.4904 27.8405 8.834 27.9455 9.24L26.6225 9.465C26.5745 9.255 26.486 9.078 26.357 8.934C26.228 8.79 26.0742 8.6805 25.8958 8.6055C25.7173 8.5305 25.5305 8.49 25.3355 8.484C25.1435 8.478 24.9627 8.5042 24.7933 8.5627C24.6238 8.6212 24.4857 8.706 24.3793 8.817C24.2728 8.928 24.2195 9.06 24.2195 9.213C24.2195 9.354 24.263 9.4688 24.35 9.5572C24.437 9.6457 24.5465 9.717 24.6785 9.771C24.8105 9.825 24.9455 9.87 25.0835 9.906L26.2085 10.212C26.3765 10.257 26.5625 10.3162 26.7665 10.3897C26.9705 10.4633 27.1663 10.5652 27.3538 10.6958C27.5412 10.8262 27.6958 10.998 27.8173 11.211C27.9388 11.424 27.9995 11.694 27.9995 12.021C27.9995 12.369 27.9268 12.6728 27.7813 12.9322C27.6357 13.1917 27.44 13.4063 27.194 13.5757C26.948 13.7452 26.6698 13.872 26.3593 13.956C26.0488 14.04 25.7285 14.082 25.3985 14.082M29.7095 13.947L29.7095 7.467L33.9395 7.467L33.9395 8.61L30.9335 8.61L30.9335 9.996L33.3995 9.996L33.3995 11.139L30.9335 11.139L30.9335 12.804L33.9395 12.804L33.9395 13.947L29.7095 13.947M35.7395 13.947L35.7395 7.476L38.4755 7.476C38.5385 7.476 38.6233 7.476 38.7297 7.476C38.8362 7.476 38.9315 7.4835 39.0155 7.4985C39.4025 7.5586 39.7197 7.6862 39.9672 7.8814C40.2147 8.0766 40.397 8.3221 40.514 8.6179C40.631 8.9138 40.6895 9.2434 40.6895 9.6067C40.6895 9.9701 40.6303 10.2997 40.5117 10.5955C40.3932 10.8912 40.2102 11.1367 39.9627 11.332C39.7152 11.5273 39.3995 11.6549 39.0155 11.7148C38.9315 11.727 38.8355 11.736 38.7275 11.742C38.6195 11.748 38.5355 11.751 38.4755 11.751L36.9635 11.751L36.9635 13.947L35.7395 13.947M36.9635 10.608L38.4215 10.608C38.4845 10.608 38.5535 10.605 38.6285 10.599C38.7035 10.593 38.7725 10.581 38.8355 10.563C39.0005 10.518 39.128 10.4422 39.218 10.3357C39.308 10.2293 39.3703 10.1107 39.4047 9.9802C39.4392 9.8498 39.4565 9.726 39.4565 9.609C39.4565 9.492 39.4392 9.3682 39.4047 9.2377C39.3703 9.1073 39.308 8.9887 39.218 8.8822C39.128 8.7758 39.0005 8.7 38.8355 8.655C38.7725 8.637 38.7035 8.625 38.6285 8.619C38.5535 8.613 38.4845 8.61 38.4215 8.61L36.9635 8.61L36.9635 10.608" fill="#ffffff"/><path d="M17.57 49.496L17.57 47.312C17.57 46.0466 17.778 44.9936 18.194 44.153C18.61 43.3124 19.2124 42.619 20.001 42.073C20.7896 41.527 21.756 41.0806 22.9 40.734L24.642 40.188C25.2834 39.98 25.8206 39.7244 26.254 39.421C26.6874 39.1176 27.021 38.7494 27.255 38.316C27.489 37.8826 27.606 37.3886 27.606 36.834L27.606 36.73C27.606 35.8634 27.3114 35.1744 26.722 34.663C26.1326 34.1516 25.3266 33.896 24.304 33.896C23.2986 33.896 22.4884 34.169 21.873 34.715C21.2576 35.261 20.95 36.0454 20.95 37.068L20.95 37.536L17.622 37.536L17.622 37.12C17.622 35.8026 17.9166 34.6846 18.506 33.766C19.0954 32.8474 19.897 32.1454 20.911 31.66C21.925 31.1746 23.056 30.932 24.304 30.932C25.552 30.932 26.6786 31.1704 27.684 31.647C28.6894 32.1236 29.4824 32.791 30.063 33.649C30.6436 34.507 30.934 35.5166 30.934 36.678L30.934 36.938C30.934 38.0994 30.6956 39.083 30.219 39.889C29.7424 40.695 29.0966 41.3536 28.282 41.865C27.4674 42.3764 26.54 42.7966 25.5 43.126L23.836 43.646C23.0906 43.8714 22.51 44.1184 22.094 44.387C21.678 44.6556 21.3876 44.9504 21.223 45.271C21.0584 45.5916 20.976 45.9774 20.976 46.428L20.976 46.532L30.778 46.532L30.778 49.496L17.57 49.496M39.722 49.86C38.3354 49.86 37.109 49.652 36.043 49.236C34.977 48.82 34.145 48.2176 33.547 47.429C32.949 46.6404 32.65 45.7086 32.65 44.634L32.65 44.322C32.65 43.49 32.7974 42.801 33.092 42.255C33.3866 41.709 33.755 41.28 34.197 40.968C34.639 40.656 35.0594 40.4394 35.458 40.318L35.458 39.85C35.0594 39.7114 34.6606 39.486 34.262 39.174C33.8634 38.862 33.5384 38.446 33.287 37.926C33.0356 37.406 32.91 36.782 32.91 36.054L32.91 35.742C32.91 34.7886 33.1916 33.9524 33.755 33.233C34.3184 32.5136 35.1114 31.9504 36.134 31.543C37.1566 31.1356 38.3526 30.932 39.722 30.932C41.0914 30.932 42.2874 31.1356 43.31 31.543C44.3326 31.9504 45.1256 32.5136 45.689 33.233C46.2524 33.9524 46.534 34.7886 46.534 35.742L46.534 36.054C46.534 36.782 46.4084 37.406 46.157 37.926C45.9056 38.446 45.585 38.862 45.195 39.174C44.805 39.486 44.402 39.7114 43.986 39.85L43.986 40.318C44.402 40.4394 44.8266 40.656 45.26 40.968C45.6934 41.28 46.0574 41.709 46.352 42.255C46.6466 42.801 46.794 43.49 46.794 44.322L46.794 44.634C46.794 45.7086 46.495 46.6404 45.897 47.429C45.299 48.2176 44.467 48.82 43.401 49.236C42.335 49.652 41.1086 49.86 39.722 49.86M39.722 46.896C40.918 46.896 41.841 46.6664 42.491 46.207C43.141 45.7476 43.466 45.1366 43.466 44.374L43.466 44.166C43.466 43.4034 43.1496 42.7924 42.517 42.333C41.8844 41.8736 40.9526 41.644 39.722 41.644C38.5086 41.644 37.5814 41.8736 36.94 42.333C36.2986 42.7924 35.978 43.4034 35.978 44.166L35.978 44.374C35.978 45.1366 36.303 45.7476 36.953 46.207C37.603 46.6664 38.526 46.896 39.722 46.896M39.722 38.68C40.8314 38.68 41.6894 38.4806 42.296 38.082C42.9026 37.6834 43.206 37.12 43.206 36.392L43.206 36.184C43.206 35.456 42.894 34.8926 42.27 34.494C41.646 34.0954 40.7966 33.896 39.722 33.896C38.6474 33.896 37.798 34.0954 37.174 34.494C36.55 34.8926 36.238 35.456 36.238 36.184L36.238 36.392C36.238 37.12 36.5414 37.6834 37.148 38.082C37.7546 38.4806 38.6126 38.68 39.722 38.68" fill="#1b2031"/><rect x="14" y="3" width="36" height="16" fill="#e5484d"/><text x="32" y="14.2" text-anchor="middle" font-family="Manrope, system-ui, sans-serif" font-size="9" font-weight="800" fill="#ffffff">OCT</text><rect x="10" y="23" width="44" height="35" fill="#f6f4ef"/><text x="32" y="49.6" text-anchor="middle" font-family="Manrope, system-ui, sans-serif" font-size="26" font-weight="800" fill="#1b2031">12</text></svg></button>
 </div>
 <div style="position:relative;display:flex;flex-direction:column;align-items:center">
 <button aria-label="System Settings" style="display:block;width:56px;height:56px;filter:drop-shadow(0 3px 6px rgba(0,0,0,0.35))"><svg xmlns="http://www.w3.org/2000/svg" width="56" height="56" viewBox="0 0 64 64"><path d="M15 0h34a15 15 0 0 1 15 15v34a15 15 0 0 1 -15 15h-34a15 15 0 0 1 -15 -15v-34a15 15 0 0 1 15 -15z" fill="#262b38"/><path d="M15 0h34a15 15 0 0 1 15 15v30a15 15 0 0 1 -15 15h-34a15 15 0 0 1 -15 -15v-30a15 15 0 0 1 15 -15z" fill="#3b4255"/><path d="M15 0h34a15 15 0 0 1 15 15v13H0V15A15 15 0 0 1 15 0z" fill="#ffffff" fill-opacity="0.09"/><path d="M15.25 20h33.5a2.25 2.25 0 0 1 2.25 2.25v0a2.25 2.25 0 0 1 -2.25 2.25h-33.5a2.25 2.25 0 0 1 -2.25 -2.25v0a2.25 2.25 0 0 1 2.25 -2.25zM15.25 35h33.5a2.25 2.25 0 0 1 2.25 2.25v0a2.25 2.25 0 0 1 -2.25 2.25h-33.5a2.25 2.25 0 0 1 -2.25 -2.25v0a2.25 2.25 0 0 1 2.25 -2.25z" fill="#6b7490"/><path fill-rule="evenodd" d="M15.25 20h19.5a2.25 2.25 0 0 1 2.25 2.25v0a2.25 2.25 0 0 1 -2.25 2.25h-19.5a2.25 2.25 0 0 1 -2.25 -2.25v0a2.25 2.25 0 0 1 2.25 -2.25zM15.25 35h6.5a2.25 2.25 0 0 1 2.25 2.25v0a2.25 2.25 0 0 1 -2.25 2.25h-6.5a2.25 2.25 0 0 1 -2.25 -2.25v0a2.25 2.25 0 0 1 2.25 -2.25z" fill="#5b9dff"/><path fill-rule="evenodd" d="M31.5 22.25a5.5 5.5 0 1 0 11 0a5.5 5.5 0 1 0 -11 0zM18.5 37.25a5.5 5.5 0 1 0 11 0a5.5 5.5 0 1 0 -11 0z" fill="#ffffff"/><path d="M15 0.5h34a14.5 14.5 0 0 1 14.5 14.5v34a14.5 14.5 0 0 1 -14.5 14.5h-34a14.5 14.5 0 0 1 -14.5 -14.5v-34a14.5 14.5 0 0 1 14.5 -14.5z" fill="none" stroke="#ffffff" stroke-opacity="0.14" stroke-width="1" stroke-linecap="butt" stroke-linejoin="miter"/></svg></button>
